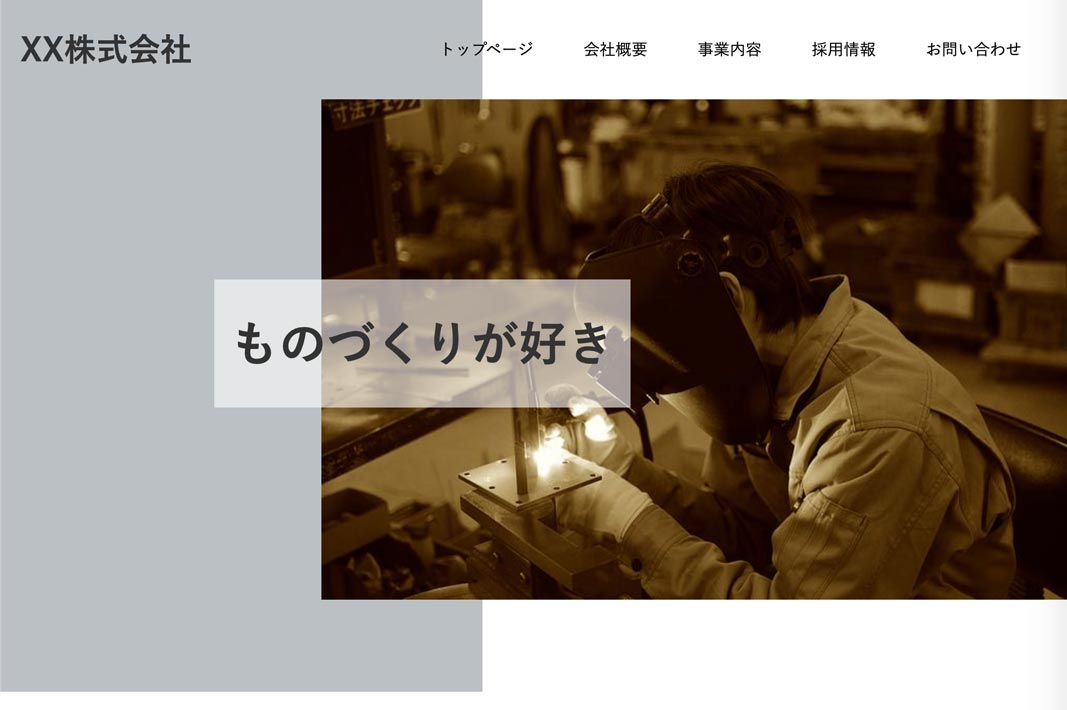
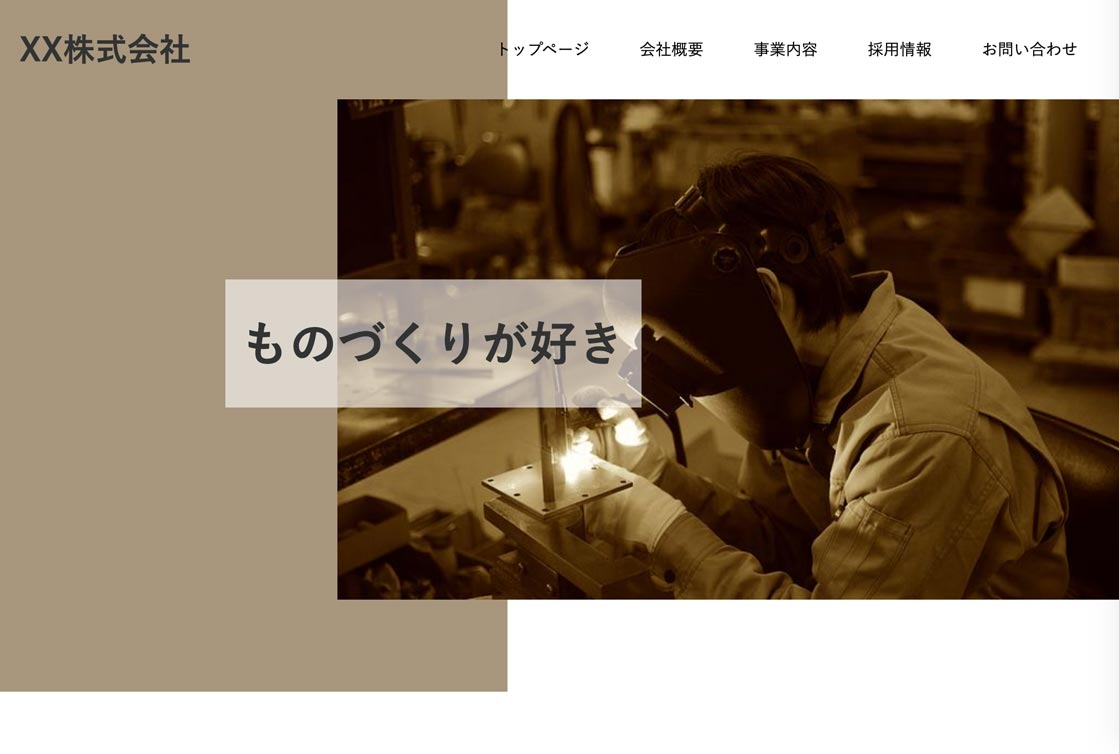
キャプチャレイアウトをGridからFlexboxに変更

diff --git a/css/main.min.css b/css/main.min.css
@@ -1,1 +1,1 @@
-body{font-family:'Rajdhani', sans-serif}@media (min-width: 1024px){:root{font-size:20px;font-size:1.25rem}}@media (min-width: 480px) and (max-width: 1024px){:root{font-size:calc(1rem + ((1vw - 7.68px) * 1.5625))}}@media (max-width: 479px){:root{font-size:14px;font-size:.875rem}}.link{display:inline-block;margin-top:30px;text-align:center;position:relative;top:0%;left:50%;transform:translate(-50%);-webkit-transform:translate(-50%);-moz-transform:translate(-50%);-ms-transform:translate(-50%);-o-transform:translate(-50%)}.link .link-button{margin-top:30px;display:inline-block;position:relative;padding:20px 30px;cursor:pointer;font-size:12px;font-size:.75rem;color:#333333}.link .link-button .border{position:absolute;background:none;transition:all .5s ease-in-out}.link .link-button .border:nth-of-type(1){top:0;left:0;border-left:1px solid #333333;border-top:1px solid #333333;width:30px;height:30px}.link .link-button .border:nth-of-type(2){bottom:0;right:0;border-right:1px solid #333333;border-bottom:1px solid #333333;width:30px;height:30px}.link .link-button:hover .border{width:110%;height:120%}.fadeIn{opacity:0.3;transform:translate(0, 10vh);transition:all 1s;-webkit-transform:translate(0, 10vh);-moz-transform:translate(0, 10vh);-ms-transform:translate(0, 10vh);-o-transform:translate(0, 10vh);-webkit-transition:all 1s;-moz-transition:all 1s;-ms-transition:all 1s;-o-transition:all 1s}.fadeIn.scrollIn{opacity:1;transform:translate(0, 0);-webkit-transform:translate(0, 0);-moz-transform:translate(0, 0);-ms-transform:translate(0, 0);-o-transform:translate(0, 0)}.section-title{font-size:30px;font-size:1.875rem;text-align:center}.content-block{width:100vw;max-width:1300px;margin:0 auto;margin:0 auto;padding:60px 30px 40px 30px}.TopVisual{position:relative;background:#F7F7F7;color:#333;height:100vh}.TopVisual__inner{position:absolute;top:30vh;left:50%;transform:translate(-50%);-webkit-transform:translate(-50%);-moz-transform:translate(-50%);-ms-transform:translate(-50%);-o-transform:translate(-50%)}@media (max-width: 479px){.TopVisual__inner{width:80%;position:absolute;top:20vh;left:50%;transform:translate(-50%);-webkit-transform:translate(-50%);-moz-transform:translate(-50%);-ms-transform:translate(-50%);-o-transform:translate(-50%)}}.TopVisual__inner h1{text-align:center;margin-bottom:30px;font-size:30px;font-size:1.875rem}.TopVisual__inner p{font-size:20px;font-size:1.25rem;line-height:1.5}.TopVisual .effect-fade__text{animation:fadeInText 4s ease-in 0s 1 normal;-webkit-animation:fadeInText 4s ease-in 0s 1 normal;animation:fadeInText 4s ease-in 0s 1 normal;-webkit-animation:fadeInText 4s ease-in 0s 1 normal}@keyframes fadeInText{0%{opacity:0}100%{opacity:1}}@keyframes fadeInText{0%{opacity:0}100%{opacity:1}}.TopVisual .leftBack{position:absolute;opacity:.5}@media (max-width: 479px){.TopVisual .leftBack{width:0;height:0;border-style:solid;border-width:100vh 100vw 0 0;border-color:#333 transparent transparent transparent;animation:SpfadeInBack 4s ease-in 0s 1 normal;-webkit-animation:SpfadeInBack 4s ease-in 0s 1 normal}@keyframes SpfadeInBack{0%{opacity:0;transform:translate3d(-100vw, 0, 0);-webkit-transform:translate3d(-100vw, 0, 0);-moz-transform:translate3d(-100vw, 0, 0);-ms-transform:translate3d(-100vw, 0, 0);-o-transform:translate3d(-100vw, 0, 0)}100%{opacity:.5;transform:translate3d(0, 0, 0);-webkit-transform:translate3d(0, 0, 0);-moz-transform:translate3d(0, 0, 0);-ms-transform:translate3d(0, 0, 0);-o-transform:translate3d(0, 0, 0)}}}@media (min-width: 480px) and (max-width: 1024px){.TopVisual .leftBack{top:0;left:0;width:50%;height:40%;background:#333;animation:LeftfadeInBack 4s ease-in 0s 1 normal;-webkit-animation:LeftfadeInBack 4s ease-in 0s 1 normal}@keyframes LeftfadeInBack{0%{opacity:0;transform:translate3d(-50%, 0, 0);-webkit-transform:translate3d(-50%, 0, 0);-moz-transform:translate3d(-50%, 0, 0);-ms-transform:translate3d(-50%, 0, 0);-o-transform:translate3d(-50%, 0, 0)}100%{opacity:.5;transform:translate3d(0, 0, 0);-webkit-transform:translate3d(0, 0, 0);-moz-transform:translate3d(0, 0, 0);-ms-transform:translate3d(0, 0, 0);-o-transform:translate3d(0, 0, 0)}}}@media (min-width: 1024px){.TopVisual .leftBack{top:0;left:0;width:50%;height:40%;background:#333;animation:LeftfadeInBack 4s ease-in 0s 1 normal;-webkit-animation:LeftfadeInBack 4s ease-in 0s 1 normal}@keyframes LeftfadeInBack{0%{opacity:0;transform:translate3d(-50%, 0, 0);-webkit-transform:translate3d(-50%, 0, 0);-moz-transform:translate3d(-50%, 0, 0);-ms-transform:translate3d(-50%, 0, 0);-o-transform:translate3d(-50%, 0, 0)}100%{opacity:.5;transform:translate3d(0, 0, 0);-webkit-transform:translate3d(0, 0, 0);-moz-transform:translate3d(0, 0, 0);-ms-transform:translate3d(0, 0, 0);-o-transform:translate3d(0, 0, 0)}}}.TopVisual .rightBack{position:absolute;opacity:.5;animation:RightfadeInBack 4s ease-in 0s 1 normal;-webkit-animation:RightfadeInBack 4s ease-in 0s 1 normal}@media (min-width: 480px) and (max-width: 1024px){.TopVisual .rightBack{top:60%;right:0;width:80%;height:10%;background:#333}@keyframes RightfadeInBack{0%{opacity:0;transform:translate3d(100vw, 0, 0);-webkit-transform:translate3d(100vw, 0, 0);-moz-transform:translate3d(100vw, 0, 0);-ms-transform:translate3d(100vw, 0, 0);-o-transform:translate3d(100vw, 0, 0)}100%{opacity:.5;transform:translate3d(0, 0, 0);-webkit-transform:translate3d(0, 0, 0);-moz-transform:translate3d(0, 0, 0);-ms-transform:translate3d(0, 0, 0);-o-transform:translate3d(0, 0, 0)}}}@media (min-width: 1024px){.TopVisual .rightBack{top:60%;right:0;width:80%;height:10%;background:#333}@keyframes RightfadeInBack{0%{opacity:0;transform:translate3d(100vw, 0, 0);-webkit-transform:translate3d(100vw, 0, 0);-moz-transform:translate3d(100vw, 0, 0);-ms-transform:translate3d(100vw, 0, 0);-o-transform:translate3d(100vw, 0, 0)}100%{opacity:.5;transform:translate3d(0, 0, 0);-webkit-transform:translate3d(0, 0, 0);-moz-transform:translate3d(0, 0, 0);-ms-transform:translate3d(0, 0, 0);-o-transform:translate3d(0, 0, 0)}}}.TopVisual .scroll{position:absolute;bottom:10vh;left:50%;transform:translate(-50%);-webkit-transform:translate(-50%);-moz-transform:translate(-50%);-ms-transform:translate(-50%);-o-transform:translate(-50%)}@media (max-width: 479px){.TopVisual .scroll{position:absolute;bottom:20vh;left:50%;transform:translate(-50%);-webkit-transform:translate(-50%);-moz-transform:translate(-50%);-ms-transform:translate(-50%);-o-transform:translate(-50%)}}.TopVisual .scroll a{font-size:16px;font-size:1rem;animation:fadeInText 4s ease-in 0s 1 normal;-webkit-animation:fadeInText 4s ease-in 0s 1 normal;color:#333333;z-index:2}@keyframes fadeInText{0%{opacity:0}100%{opacity:1}}.TopVisual .scroll span{border-radius:100%;-webkit-border-radius:100%;-moz-border-radius:100%;-ms-border-radius:100%;-o-border-radius:100%;position:absolute;bottom:4vh;left:50%;transform:translate(-50%);-webkit-transform:translate(-50%);-moz-transform:translate(-50%);-ms-transform:translate(-50%);-o-transform:translate(-50%);width:50px;height:50px;border:1px solid #505050;animation:wave 3s infinite;-webkit-animation:wave 3s infinite}@keyframes wave{0%{opacity:0.2}30%{opacity:0.8}90%{opacity:0;box-shadow:0 0 10px 30px #969696}100%{opacity:0}}.TopVisual .scroll span::after{transform:translate(-50%);-webkit-transform:translate(-50%);-moz-transform:translate(-50%);-ms-transform:translate(-50%);-o-transform:translate(-50%);content:'';position:absolute;top:15px;left:50%;width:0;height:0;border-style:solid;border-width:26px 15px 0 15px;border-color:rgba(80,80,80,0.5) transparent transparent transparent}.Header{position:relative;position:sticky;position:-webkit-sticky;top:0;background:#333333;box-shadow:0px 9px 3px -3px rgba(0,0,0,0.1);-webkit-box-shadow:0px 9px 3px -3px rgba(0,0,0,0.1);-moz-box-shadow:0px 9px 3px -3px rgba(0,0,0,0.1);z-index:10}.Header .Header-inner{font-size:0}@media (max-width: 479px){.Header .Header-inner__list{display:inline-block;text-align:center;height:50px;line-height:50px;border:1px solid #EAEAEA;border-top:0;font-size:14px;font-size:.875rem;width:calc(100% / 5)}.Header .Header-inner__list a{color:#EAEAEA}}@media (min-width: 480px) and (max-width: 1024px){.Header .Header-inner__list{display:inline-block;text-align:center;height:50px;line-height:50px;border:1px solid #EAEAEA;border-top:0;font-size:16px;font-size:1rem;width:calc(100% / 5)}.Header .Header-inner__list a{color:#EAEAEA}}@media (min-width: 1024px){.Header .Header-inner__list{display:inline-block;text-align:center;height:50px;line-height:50px;border:1px solid #EAEAEA;border-top:0;font-size:16px;font-size:1rem;width:calc(100% / 5)}.Header .Header-inner__list a{color:#EAEAEA}}.Header .Header-inner__list:hover{background:#cfcfcf}.Header .Header-inner__list:hover a{color:#424242;display:block}.About{background:#F7F7F7;color:#333;margin-bottom:70vh}.About .About-flex{display:flex;margin-top:30px;font-size:16px;font-size:1rem;filter:grayscale(80%);-webkit-filter:grayscale(80%)}@media (max-width: 479px){.About .About-flex{flex-direction:column}.About .About-flex__photo{max-width:10rem;margin:0 auto}.About .About-flex__photo img{max-width:100%;height:auto;border-radius:100%;-webkit-border-radius:100%;-moz-border-radius:100%;-ms-border-radius:100%;-o-border-radius:100%}.About .About-flex__text{margin-top:30px}.About .About-flex__text--name{text-align:center;margin:20px 0;position:relative}.About .About-flex__text--name::after{position:absolute;content:'';width:80%;bottom:-10px;left:50%;transform:translate(-50%);-webkit-transform:translate(-50%);-moz-transform:translate(-50%);-ms-transform:translate(-50%);-o-transform:translate(-50%);height:1px;background:#333}}@media (min-width: 480px) and (max-width: 1024px){.About .About-flex{justify-content:space-around;align-items:center}.About .About-flex__photo{width:30%}.About .About-flex__photo img{width:100%;height:auto;border-radius:100%;-webkit-border-radius:100%;-moz-border-radius:100%;-ms-border-radius:100%;-o-border-radius:100%}.About .About-flex__text{width:50%;margin-top:30px;line-height:1.5}.About .About-flex__text--name{text-align:center;margin-bottom:30px;position:relative}.About .About-flex__text--name::after{position:absolute;content:'';width:70%;bottom:-10px;left:50%;transform:translate(-50%);-webkit-transform:translate(-50%);-moz-transform:translate(-50%);-ms-transform:translate(-50%);-o-transform:translate(-50%);height:1px;background:#333}}@media (min-width: 1024px){.About .About-flex{justify-content:space-around;align-items:center}.About .About-flex__photo{width:30%}.About .About-flex__photo img{width:100%;height:auto;border-radius:100%;-webkit-border-radius:100%;-moz-border-radius:100%;-ms-border-radius:100%;-o-border-radius:100%}.About .About-flex__text{width:50%;margin-top:30px;line-height:1.5}.About .About-flex__text--name{text-align:center;margin-bottom:30px;position:relative}.About .About-flex__text--name::after{position:absolute;content:'';width:70%;bottom:-10px;left:50%;transform:translate(-50%);-webkit-transform:translate(-50%);-moz-transform:translate(-50%);-ms-transform:translate(-50%);-o-transform:translate(-50%);height:1px;background:#333}}.About .About__theme{margin-top:30px;line-height:2}body::before{content:"";display:block;position:fixed;top:0;left:0;width:100%;height:100vh;background-size:cover;background-position:center;background-repeat:no-repeat;z-index:-1;filter:grayscale(60%);-webkit-filter:grayscale(60%);background-image:url(../img/Canal.jpeg)}@media (max-width: 479px){body::before{background-image:url(../img/sptower.jpeg)}}.Service{display:block;background:#c0bebe;color:#EAEAEA}.Service__block{margin-top:30px}.Service__block .Service__title{font-size:20px;font-size:1.25rem;width:100%;margin:0 auto;text-align:center}.Service__block .Service__title .fa-laptop-code{margin-right:20px}.Service__block .Service__title p{display:inline-block}.Service__block .Service__text{font-size:16px;font-size:1rem;margin:20px 0;text-align:center;line-height:1.3}@media (max-width: 479px){.Service__block .Service__text{text-align:left}}.Service__about{font-size:16px;font-size:1rem;margin-bottom:30px}.Service__about td{padding-bottom:10px}.Service__about .fa-check{margin-right:10px}.Service .skill h3{font-size:24px;font-size:1.5rem;text-align:center}.Service .skill .skill__container{display:flex;line-height:1.3}@media (max-width: 479px){.Service .skill .skill__container{flex-direction:column}}.Service .skill .skill__container-contents{padding:10px;border-right:1px solid #EAEAEA}@media (max-width: 479px){.Service .skill .skill__container-contents{border-right:none;border-bottom:1px solid #EAEAEA}}.Service .skill .skill__container-contents:nth-of-type(3){border-right:none}.Service .skill .skill__container-title{text-align:center;padding:10px}.Service .skill .skill__container-title .fab{font-size:30px;font-size:1.875rem;padding:10px}.Service .skill .skill__container-title p{font-size:20px;font-size:1.25rem;padding-bottom:20px}@media (max-width: 479px){.Service .skill .skill__container-title p{padding-bottom:0}}.Work{display:block;background:#F7F7F7;color:#333}.Work .Work__text{font-size:14px;font-size:.875rem;margin-top:2rem;text-align:center}.Work .Work__text--sm{font-size:12px;font-size:.75rem;margin-top:0.5rem;text-align:center}.Work .Work__capture{padding-top:2rem;display:grid;column-gap:3rem;row-gap:3rem;grid-template-columns:repeat(auto-fill, minmax(260px, 1fr))}.Work .Work__capture img{width:100%;height:100%;object-fit:cover;border:1px solid #c0bebe;box-shadow:0px 9px 3px -3px rgba(0,0,0,0.1);-webkit-box-shadow:0px 9px 3px -3px rgba(0,0,0,0.1);-moz-box-shadow:0px 9px 3px -3px rgba(0,0,0,0.1)}.Work .Work__capture-link{display:block;margin:3rem auto 0;text-align:center;width:20%;color:#333}.Price{display:block;background:#c0bebe;color:#EAEAEA}.Contact{display:block;background:#F7F7F7;color:#333}.Footer{background:#c0bebe;color:#EAEAEA;width:100%;text-align:center;padding:30px 0}
+body{font-family:'Rajdhani', sans-serif}@media (min-width: 1024px){:root{font-size:20px;font-size:1.25rem}}@media (min-width: 480px) and (max-width: 1024px){:root{font-size:calc(1rem + ((1vw - 7.68px) * 1.5625))}}@media (max-width: 479px){:root{font-size:14px;font-size:.875rem}}.link{display:inline-block;margin-top:30px;text-align:center;position:relative;top:0%;left:50%;transform:translate(-50%);-webkit-transform:translate(-50%);-moz-transform:translate(-50%);-ms-transform:translate(-50%);-o-transform:translate(-50%)}.link .link-button{margin-top:30px;display:inline-block;position:relative;padding:20px 30px;cursor:pointer;font-size:12px;font-size:.75rem;color:#333333}.link .link-button .border{position:absolute;background:none;transition:all .5s ease-in-out}.link .link-button .border:nth-of-type(1){top:0;left:0;border-left:1px solid #333333;border-top:1px solid #333333;width:30px;height:30px}.link .link-button .border:nth-of-type(2){bottom:0;right:0;border-right:1px solid #333333;border-bottom:1px solid #333333;width:30px;height:30px}.link .link-button:hover .border{width:110%;height:120%}.fadeIn{opacity:0.3;transform:translate(0, 10vh);transition:all 1s;-webkit-transform:translate(0, 10vh);-moz-transform:translate(0, 10vh);-ms-transform:translate(0, 10vh);-o-transform:translate(0, 10vh);-webkit-transition:all 1s;-moz-transition:all 1s;-ms-transition:all 1s;-o-transition:all 1s}.fadeIn.scrollIn{opacity:1;transform:translate(0, 0);-webkit-transform:translate(0, 0);-moz-transform:translate(0, 0);-ms-transform:translate(0, 0);-o-transform:translate(0, 0)}.section-title{font-size:30px;font-size:1.875rem;text-align:center}.content-block{width:100vw;max-width:1300px;margin:0 auto;margin:0 auto;padding:60px 30px 40px 30px}.TopVisual{position:relative;background:#F7F7F7;color:#333;height:100vh}.TopVisual__inner{position:absolute;top:30vh;left:50%;transform:translate(-50%);-webkit-transform:translate(-50%);-moz-transform:translate(-50%);-ms-transform:translate(-50%);-o-transform:translate(-50%)}@media (max-width: 479px){.TopVisual__inner{width:80%;position:absolute;top:20vh;left:50%;transform:translate(-50%);-webkit-transform:translate(-50%);-moz-transform:translate(-50%);-ms-transform:translate(-50%);-o-transform:translate(-50%)}}.TopVisual__inner h1{text-align:center;margin-bottom:30px;font-size:30px;font-size:1.875rem}.TopVisual__inner p{font-size:20px;font-size:1.25rem;line-height:1.5}.TopVisual .effect-fade__text{animation:fadeInText 4s ease-in 0s 1 normal;-webkit-animation:fadeInText 4s ease-in 0s 1 normal;animation:fadeInText 4s ease-in 0s 1 normal;-webkit-animation:fadeInText 4s ease-in 0s 1 normal}@keyframes fadeInText{0%{opacity:0}100%{opacity:1}}@keyframes fadeInText{0%{opacity:0}100%{opacity:1}}.TopVisual .leftBack{position:absolute;opacity:.5}@media (max-width: 479px){.TopVisual .leftBack{width:0;height:0;border-style:solid;border-width:100vh 100vw 0 0;border-color:#333 transparent transparent transparent;animation:SpfadeInBack 4s ease-in 0s 1 normal;-webkit-animation:SpfadeInBack 4s ease-in 0s 1 normal}@keyframes SpfadeInBack{0%{opacity:0;transform:translate3d(-100vw, 0, 0);-webkit-transform:translate3d(-100vw, 0, 0);-moz-transform:translate3d(-100vw, 0, 0);-ms-transform:translate3d(-100vw, 0, 0);-o-transform:translate3d(-100vw, 0, 0)}100%{opacity:.5;transform:translate3d(0, 0, 0);-webkit-transform:translate3d(0, 0, 0);-moz-transform:translate3d(0, 0, 0);-ms-transform:translate3d(0, 0, 0);-o-transform:translate3d(0, 0, 0)}}}@media (min-width: 480px) and (max-width: 1024px){.TopVisual .leftBack{top:0;left:0;width:50%;height:30%;background:#333;animation:LeftfadeInBack 4s ease-in 0s 1 normal;-webkit-animation:LeftfadeInBack 4s ease-in 0s 1 normal}@keyframes LeftfadeInBack{0%{opacity:0;transform:translate3d(-50%, 0, 0);-webkit-transform:translate3d(-50%, 0, 0);-moz-transform:translate3d(-50%, 0, 0);-ms-transform:translate3d(-50%, 0, 0);-o-transform:translate3d(-50%, 0, 0)}100%{opacity:.5;transform:translate3d(0, 0, 0);-webkit-transform:translate3d(0, 0, 0);-moz-transform:translate3d(0, 0, 0);-ms-transform:translate3d(0, 0, 0);-o-transform:translate3d(0, 0, 0)}}}@media (min-width: 1024px){.TopVisual .leftBack{top:0;left:0;width:50%;height:30%;background:#333;animation:LeftfadeInBack 4s ease-in 0s 1 normal;-webkit-animation:LeftfadeInBack 4s ease-in 0s 1 normal}@keyframes LeftfadeInBack{0%{opacity:0;transform:translate3d(-50%, 0, 0);-webkit-transform:translate3d(-50%, 0, 0);-moz-transform:translate3d(-50%, 0, 0);-ms-transform:translate3d(-50%, 0, 0);-o-transform:translate3d(-50%, 0, 0)}100%{opacity:.5;transform:translate3d(0, 0, 0);-webkit-transform:translate3d(0, 0, 0);-moz-transform:translate3d(0, 0, 0);-ms-transform:translate3d(0, 0, 0);-o-transform:translate3d(0, 0, 0)}}}.TopVisual .rightBack{position:absolute;opacity:.5;animation:RightfadeInBack 4s ease-in 0s 1 normal;-webkit-animation:RightfadeInBack 4s ease-in 0s 1 normal}@media (min-width: 480px) and (max-width: 1024px){.TopVisual .rightBack{top:60%;right:0;width:80%;height:10%;background:#333}@keyframes RightfadeInBack{0%{opacity:0;transform:translate3d(100vw, 0, 0);-webkit-transform:translate3d(100vw, 0, 0);-moz-transform:translate3d(100vw, 0, 0);-ms-transform:translate3d(100vw, 0, 0);-o-transform:translate3d(100vw, 0, 0)}100%{opacity:.5;transform:translate3d(0, 0, 0);-webkit-transform:translate3d(0, 0, 0);-moz-transform:translate3d(0, 0, 0);-ms-transform:translate3d(0, 0, 0);-o-transform:translate3d(0, 0, 0)}}}@media (min-width: 1024px){.TopVisual .rightBack{top:60%;right:0;width:80%;height:10%;background:#333}@keyframes RightfadeInBack{0%{opacity:0;transform:translate3d(100vw, 0, 0);-webkit-transform:translate3d(100vw, 0, 0);-moz-transform:translate3d(100vw, 0, 0);-ms-transform:translate3d(100vw, 0, 0);-o-transform:translate3d(100vw, 0, 0)}100%{opacity:.5;transform:translate3d(0, 0, 0);-webkit-transform:translate3d(0, 0, 0);-moz-transform:translate3d(0, 0, 0);-ms-transform:translate3d(0, 0, 0);-o-transform:translate3d(0, 0, 0)}}}.TopVisual .scroll{position:absolute;bottom:10vh;left:50%;transform:translate(-50%);-webkit-transform:translate(-50%);-moz-transform:translate(-50%);-ms-transform:translate(-50%);-o-transform:translate(-50%)}@media (max-width: 479px){.TopVisual .scroll{position:absolute;bottom:20vh;left:50%;transform:translate(-50%);-webkit-transform:translate(-50%);-moz-transform:translate(-50%);-ms-transform:translate(-50%);-o-transform:translate(-50%)}}.TopVisual .scroll a{font-size:16px;font-size:1rem;animation:fadeInText 4s ease-in 0s 1 normal;-webkit-animation:fadeInText 4s ease-in 0s 1 normal;color:#333333;z-index:2}@keyframes fadeInText{0%{opacity:0}100%{opacity:1}}.TopVisual .scroll span{border-radius:100%;-webkit-border-radius:100%;-moz-border-radius:100%;-ms-border-radius:100%;-o-border-radius:100%;position:absolute;bottom:4vh;left:50%;transform:translate(-50%);-webkit-transform:translate(-50%);-moz-transform:translate(-50%);-ms-transform:translate(-50%);-o-transform:translate(-50%);width:50px;height:50px;border:1px solid #505050;animation:wave 3s infinite;-webkit-animation:wave 3s infinite}@keyframes wave{0%{opacity:0.2}30%{opacity:0.8}90%{opacity:0;box-shadow:0 0 10px 30px #969696}100%{opacity:0}}.TopVisual .scroll span::after{transform:translate(-50%);-webkit-transform:translate(-50%);-moz-transform:translate(-50%);-ms-transform:translate(-50%);-o-transform:translate(-50%);content:'';position:absolute;top:15px;left:50%;width:0;height:0;border-style:solid;border-width:26px 15px 0 15px;border-color:rgba(80,80,80,0.5) transparent transparent transparent}.Header{position:relative;position:sticky;position:-webkit-sticky;top:0;background:#333333;box-shadow:0px 9px 3px -3px rgba(0,0,0,0.1);-webkit-box-shadow:0px 9px 3px -3px rgba(0,0,0,0.1);-moz-box-shadow:0px 9px 3px -3px rgba(0,0,0,0.1);z-index:10}.Header .Header-inner{font-size:0}@media (max-width: 479px){.Header .Header-inner__list{display:inline-block;text-align:center;height:50px;line-height:50px;border:1px solid #EAEAEA;border-top:0;font-size:14px;font-size:.875rem;width:calc(100% / 5)}.Header .Header-inner__list a{color:#EAEAEA}}@media (min-width: 480px) and (max-width: 1024px){.Header .Header-inner__list{display:inline-block;text-align:center;height:50px;line-height:50px;border:1px solid #EAEAEA;border-top:0;font-size:16px;font-size:1rem;width:calc(100% / 5)}.Header .Header-inner__list a{color:#EAEAEA}}@media (min-width: 1024px){.Header .Header-inner__list{display:inline-block;text-align:center;height:50px;line-height:50px;border:1px solid #EAEAEA;border-top:0;font-size:16px;font-size:1rem;width:calc(100% / 5)}.Header .Header-inner__list a{color:#EAEAEA}}.Header .Header-inner__list:hover{background:#cfcfcf}.Header .Header-inner__list:hover a{color:#424242;display:block}.About{background:#F7F7F7;color:#333;margin-bottom:70vh}.About .About-flex{display:flex;margin-top:30px;font-size:16px;font-size:1rem;filter:grayscale(80%);-webkit-filter:grayscale(80%)}@media (max-width: 479px){.About .About-flex{flex-direction:column}.About .About-flex__photo{max-width:10rem;margin:0 auto}.About .About-flex__photo img{max-width:100%;height:auto;border-radius:100%;-webkit-border-radius:100%;-moz-border-radius:100%;-ms-border-radius:100%;-o-border-radius:100%}.About .About-flex__text{margin-top:30px}.About .About-flex__text--name{text-align:center;margin:20px 0;position:relative}.About .About-flex__text--name::after{position:absolute;content:'';width:80%;bottom:-10px;left:50%;transform:translate(-50%);-webkit-transform:translate(-50%);-moz-transform:translate(-50%);-ms-transform:translate(-50%);-o-transform:translate(-50%);height:1px;background:#333}}@media (min-width: 480px) and (max-width: 1024px){.About .About-flex{justify-content:space-around;align-items:center}.About .About-flex__photo{width:30%}.About .About-flex__photo img{width:100%;height:auto;border-radius:100%;-webkit-border-radius:100%;-moz-border-radius:100%;-ms-border-radius:100%;-o-border-radius:100%}.About .About-flex__text{width:50%;margin-top:30px;line-height:1.5}.About .About-flex__text--name{text-align:center;margin-bottom:30px;position:relative}.About .About-flex__text--name::after{position:absolute;content:'';width:70%;bottom:-10px;left:50%;transform:translate(-50%);-webkit-transform:translate(-50%);-moz-transform:translate(-50%);-ms-transform:translate(-50%);-o-transform:translate(-50%);height:1px;background:#333}}@media (min-width: 1024px){.About .About-flex{justify-content:space-around;align-items:center}.About .About-flex__photo{width:30%}.About .About-flex__photo img{width:100%;height:auto;border-radius:100%;-webkit-border-radius:100%;-moz-border-radius:100%;-ms-border-radius:100%;-o-border-radius:100%}.About .About-flex__text{width:50%;margin-top:30px;line-height:1.5}.About .About-flex__text--name{text-align:center;margin-bottom:30px;position:relative}.About .About-flex__text--name::after{position:absolute;content:'';width:70%;bottom:-10px;left:50%;transform:translate(-50%);-webkit-transform:translate(-50%);-moz-transform:translate(-50%);-ms-transform:translate(-50%);-o-transform:translate(-50%);height:1px;background:#333}}.About .About__theme{margin-top:30px;line-height:2}body::before{content:"";display:block;position:fixed;top:0;left:0;width:100%;height:100vh;background-size:cover;background-position:center;background-repeat:no-repeat;z-index:-1;filter:grayscale(60%);-webkit-filter:grayscale(60%);background-image:url(../img/Canal.jpeg)}@media (max-width: 479px){body::before{background-image:url(../img/sptower.jpeg)}}.Service{display:block;background:#7a7979;color:#EAEAEA}.Service__block{margin-top:30px}.Service__block .Service__title{font-size:20px;font-size:1.25rem;width:100%;margin:0 auto;text-align:center}.Service__block .Service__title .fa-laptop-code{margin-right:20px}.Service__block .Service__title p{display:inline-block}.Service__block .Service__text{font-size:16px;font-size:1rem;margin:20px 0;text-align:center;line-height:1.3}@media (max-width: 479px){.Service__block .Service__text{text-align:left}}.Service__about{font-size:16px;font-size:1rem;margin-bottom:30px}.Service__about td{padding-bottom:10px}.Service__about .fa-check{margin-right:10px}.Service .skill h3{font-size:24px;font-size:1.5rem;text-align:center}.Service .skill .skill__container{display:flex;line-height:1.3}@media (max-width: 479px){.Service .skill .skill__container{flex-direction:column}}.Service .skill .skill__container-contents{padding:10px;border-right:1px solid #EAEAEA}@media (max-width: 479px){.Service .skill .skill__container-contents{border-right:none;border-bottom:1px solid #EAEAEA}}.Service .skill .skill__container-contents:nth-of-type(3){border-right:none}.Service .skill .skill__container-title{text-align:center;padding:10px}.Service .skill .skill__container-title .fab{font-size:30px;font-size:1.875rem;padding:10px}.Service .skill .skill__container-title p{font-size:20px;font-size:1.25rem;padding-bottom:20px}@media (max-width: 479px){.Service .skill .skill__container-title p{padding-bottom:0}}.Work{display:block;background:#F7F7F7;color:#333}.Work .Work__text{font-size:14px;font-size:.875rem;margin-top:2rem;text-align:center}.Work .Work__capture{padding-top:2rem;display:flex;flex-wrap:wrap;justify-content:space-around}.Work .Work__capture .work__capture-img{position:relative;width:300px;min-width:250px;height:300px;min-height:250px;margin:1rem}.Work .Work__capture img{width:100%;height:100%;object-fit:cover;border:1px solid #c0bebe;box-shadow:0px 9px 3px -3px rgba(0,0,0,0.1);-webkit-box-shadow:0px 9px 3px -3px rgba(0,0,0,0.1);-moz-box-shadow:0px 9px 3px -3px rgba(0,0,0,0.1)}.Work .Work__capture .caption{position:absolute;top:0;left:0;display:none;width:100%;height:100%;background:rgba(51,51,51,0.7);color:#EAEAEA}.Work .Work__capture .caption p{position:absolute;top:70%;padding:0 1rem;font-size:12px;font-size:.75rem}.Work .Work__capture-link{display:block;margin:3rem auto 0;text-align:center;width:20%;color:#333}.Price{display:block;background:#7a7979;color:#EAEAEA}.Contact{display:block;background:#F7F7F7;color:#333}.Footer{background:#7a7979;color:#EAEAEA;width:100%;text-align:center;padding:30px 0}

diff --git a/index.html b/index.html
@@ -129,12 +129,15 @@
       <div class="content-block fadeIn">
           <h2 class="section-title">Work</h2>
           <p class="Work__text">日々新しい技術を学習中です。内容は随時更新していく予定です。</p>
-          <p class="Work__text--sm">※リンク先はPDFをキャプチャしたデータも含まれています。</p>
           <ul class="Work__capture">
-            <li class="Worlk__capture-img"><a href="#" target="blank"><img src="img/iSARA.jpg" alt="iSaraサイトの模写キャプチャ"></a></li>
-            <li class="Worlk__capture-img"><a href="#"><img src="img/PAS-POL.jpg" alt="PAS=POLサイトの模写キャプチャ"></a></li>
-            <li class="Worlk__capture-img"><a href="#"><img src="img/corporate.jpg" alt="コーポレイトサイトのキャプチャ"></a></li>
-            <li class="Worlk__capture-img"><a href="#"><img src="img/KUJIRACAFE.jpg" alt="カフェサイトのキャプチャ"></a></li>
+            <li class="work__capture-img"><a href="#"><img src="img/Portfolio.jpg" alt="ポートフォリオキャプチャ"></a>
+              <div class="caption"><p>伊藤大地のポートフォリオサイトです。</p></div></li>
+            <li class="work__capture-img"><a href="#"><img src="img/iSARA.jpg" alt="iSaraサイトの模写キャプチャ"></a>
+              <div class="caption"><p>バンコクのエンジニア育成講座「iSara」のサイト模写です。（画像データ）</p></div></li>
+            <li class="work__capture-img"><a href="#"><img src="img/PAS-POL.jpg" alt="PAS=POLサイトの模写キャプチャ"></a>
+              <div class="caption"><p>世界一周団体TABIPPOのモノづくりブランドPAS-POLのサイト模写です。</p></div></li>
+            <li class="work__capture-img"><a href="#"><img src="img/corporate.jpg" alt="コーポレイトサイトのキャプチャ"></a>
+              <div class="caption"><p>仮想のコーポレートサイトです。</p></div></li>
           </ul>
           <div class="link">
               <a class="link-button" href="#">MORE...

diff --git a/css/main.scss b/css/main.scss
@@ -16,7 +16,7 @@ body {
   color: $color;
 }
 
-@mixin black ($background: #c0bebe , $color: #EAEAEA, $width: 100vw){
+@mixin black ($background: #7a7979 , $color: #EAEAEA, $width: 100vw){
   background: $background;
   color: $color;
 }
@@ -366,7 +366,7 @@ $tab: 480px; // タブレット
       top: 0;
       left: 0;
       width: 50%;
-      height: 40%;
+      height: 30%;
       background: #333;
       animation: LeftfadeInBack 4s ease-in 0s 1 normal;
       -webkit-animation: LeftfadeInBack 4s ease-in 0s 1 normal;
@@ -377,7 +377,7 @@ $tab: 480px; // タブレット
       top: 0;
       left: 0;
       width: 50%;
-      height: 40%;
+      height: 30%;
       background: #333;
       animation: LeftfadeInBack 4s ease-in 0s 1 normal;
       -webkit-animation: LeftfadeInBack 4s ease-in 0s 1 normal;
@@ -737,22 +737,23 @@ body::before {
     @include fontsize(14);
     margin-top: 2rem;
     text-align: center;
-    &--sm {
-      @include fontsize(12);
-      margin-top: 0.5rem;
-      text-align: center;
-    }
   }
 
   .Work__capture {
     padding-top: 2rem;
-    display: grid;
-    column-gap: 3rem;
-    row-gap: 3rem;
-    grid-template-columns: repeat(
-      auto-fill,
-      minmax(260px, 1fr)
-      );
+    display: flex;
+    flex-wrap: wrap;
+    justify-content: space-around;
+
+
+    .work__capture-img {
+      position: relative;
+      width: 300px;
+      min-width: 250px;
+      height: 300px;
+      min-height: 250px;
+      margin: 1rem;
+    }
     
     img {
       width: 100%;
@@ -763,7 +764,26 @@ body::before {
       -webkit-box-shadow: 0px 9px 3px -3px rgba(0,0,0,0.1);
       -moz-box-shadow: 0px 9px 3px -3px rgba(0,0,0,0.1);
     }
+
+    .caption {
+      position: absolute;
+      top: 0;
+      left: 0;
+      display: none;
+      width: 100%;
+      height: 100%;
+      background: rgba($color: #333, $alpha: .7);
+      color: #EAEAEA;
+
+      p {
+        position: absolute;
+        top: 70%;
+        padding:0 1rem;
+        @include fontsize(12);
+      }
+    }
   }
+
   .Work__capture-link {
     display: block;
     margin: 3rem auto 0;

diff --git a/css/main.css b/css/main.css
@@ -225,7 +225,7 @@ body {
     top: 0;
     left: 0;
     width: 50%;
-    height: 40%;
+    height: 30%;
     background: #333;
     animation: LeftfadeInBack 4s ease-in 0s 1 normal;
     -webkit-animation: LeftfadeInBack 4s ease-in 0s 1 normal;
@@ -255,7 +255,7 @@ body {
     top: 0;
     left: 0;
     width: 50%;
-    height: 40%;
+    height: 30%;
     background: #333;
     animation: LeftfadeInBack 4s ease-in 0s 1 normal;
     -webkit-animation: LeftfadeInBack 4s ease-in 0s 1 normal;
@@ -687,7 +687,7 @@ body::before {
 
 .Service {
   display: block;
-  background: #c0bebe;
+  background: #7a7979;
   color: #EAEAEA;
 }
 
@@ -808,19 +808,20 @@ body::before {
   text-align: center;
 }
 
-.Work .Work__text--sm {
-  font-size: 12px;
-  font-size: 0.75rem;
-  margin-top: 0.5rem;
-  text-align: center;
-}
-
 .Work .Work__capture {
   padding-top: 2rem;
-  display: grid;
-  column-gap: 3rem;
-  row-gap: 3rem;
-  grid-template-columns: repeat(auto-fill, minmax(260px, 1fr));
+  display: flex;
+  flex-wrap: wrap;
+  justify-content: space-around;
+}
+
+.Work .Work__capture .work__capture-img {
+  position: relative;
+  width: 300px;
+  min-width: 250px;
+  height: 300px;
+  min-height: 250px;
+  margin: 1rem;
 }
 
 .Work .Work__capture img {
@@ -833,6 +834,25 @@ body::before {
   -moz-box-shadow: 0px 9px 3px -3px rgba(0, 0, 0, 0.1);
 }
 
+.Work .Work__capture .caption {
+  position: absolute;
+  top: 0;
+  left: 0;
+  display: none;
+  width: 100%;
+  height: 100%;
+  background: rgba(51, 51, 51, 0.7);
+  color: #EAEAEA;
+}
+
+.Work .Work__capture .caption p {
+  position: absolute;
+  top: 70%;
+  padding: 0 1rem;
+  font-size: 12px;
+  font-size: 0.75rem;
+}
+
 .Work .Work__capture-link {
   display: block;
   margin: 3rem auto 0;
@@ -843,7 +863,7 @@ body::before {
 
 .Price {
   display: block;
-  background: #c0bebe;
+  background: #7a7979;
   color: #EAEAEA;
 }
 
@@ -854,7 +874,7 @@ body::before {
 }
 
 .Footer {
-  background: #c0bebe;
+  background: #7a7979;
   color: #EAEAEA;
   width: 100%;
   text-align: center;

diff --git a/js/script.js b/js/script.js
@@ -35,4 +35,21 @@ $(function(){
         $('body,html').animate({ scrollTop : position }, 500); 
         return false;
     });
+
+// ・・・キャプチャ画像の説明文・・・
+    // li要素をマウスオーバー
+    $(".work__capture-img").hover(function(){
+    // キャプション部分の表示：フェードイン
+    $(this).children(".caption").stop().fadeIn(300);
+    // キャプションのテキスト位置：top70% から 50% へ移動
+    $(this).children(".caption").children("p").stop().animate({"top" : "50%"}, 300);
+    // ポインタを変更
+    $(this).css('cursor','pointer');
+    
+    }, function(){
+    // キャプション部分の非表示：フェードアウト
+    $(this).children(".caption").stop().fadeOut(300);
+    // キャプションのテキスト位置：top50% から 70%へ移動
+    $(this).children(".caption").children("p").stop().animate({"top":"70%"}, 300);
+    });
 });
